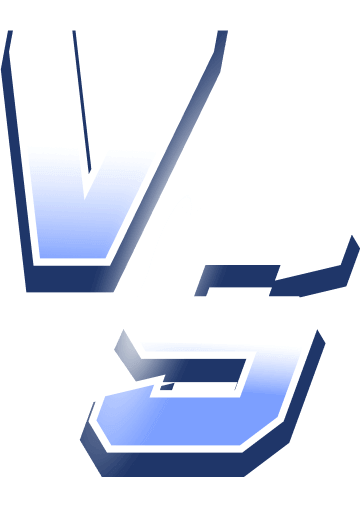
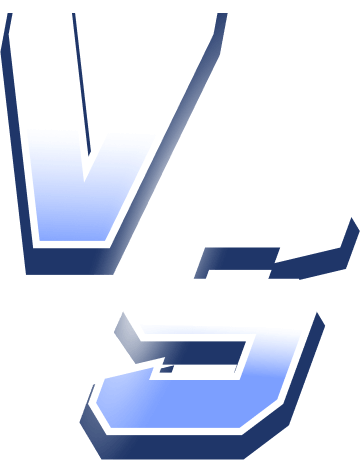
vs page

diff --git a/src/components/Loader/MatchLoader.jsx b/src/components/Loader/MatchLoader.jsx
@@ -3,35 +3,67 @@ import "../../assets/css/Matchmaking.css";
 import one_vs_one from "../../assets/images/1-vs-1.png";
 import blue_right from "../../assets/images/blue_right_bg.png";
 import pink_left from "../../assets/images/pink_left_bg.png";
-import bolt_center from "../../assets/images/bolt_center_img.png";
+import vs_animate from "../../assets/images/vs_animate.png";
+import { motion } from "motion/react";
 
 const MatchLoader = () => {
   return (
     <div className="flex-1 flex flex-col sd_main-content relative bg-[#020326] rounded-b-[0] z-20">
-
-
       <main className="flex-1 match_loading--wrapper overflow-hidden relative ">
-        {/* --- dashboard main content back groud --- */}
-        <div className="loading-not-finish-wp">          
-          <img
-            className="pink-left absolute left-0 top-0 w-[60.6rem]"
+        <div className="loading-not-finish-wp h-[88%] flex justify-center items-center">
+          {/* Pink background - left to right */}
+          <motion.img
+            className="pink-left absolute left-0 top-0 w-full sm:h-[88%] h-[92%]"
             src={pink_left}
             alt=""
+            initial={{ x: "-100%", opacity: 0 }}
+            animate={{ x: 0, opacity: 1 }}
+            transition={{ duration: 0.5, ease: "easeOut" }}
           />
-          <img
-            className="blue-right absolute right-0 top-0 w-[60.6rem]"
+
+          {/* Blue background - right to left */}
+          <motion.img
+            className="blue-right absolute right-0 top-0 w-[67%] sm:h-[88%] h-[92%]"
             src={blue_right}
             alt=""
+            initial={{ x: "100%", opacity: 0 }}
+            animate={{ x: 0, opacity: 1 }}
+            transition={{ duration: 0.5, ease: "easeOut" }}
           />
-          <img
-            className="vs-in bolt-center absolute left-1/2 top-0 w-[32.89rem]"
-            src={bolt_center}
-            alt=""
-          />
-          <img
-            className="vs-in one-vs-one absolute left-1/2 top-1/2 w-[17rem]"
+
+          {/* VS image bounce scale in */}
+          <motion.img
+            className="vs-in relative md:-left-3 one-vs-one h-[15.5rem] sm:h-[18rem] md:h-[20rem] lg:h-[22rem] z-100"
             src={one_vs_one}
             alt=""
+            initial={{ scale: 0, opacity: 0 }}
+            animate={{ scale: 1, opacity: 1 }}
+            transition={{
+              delay: 0.6,
+              duration: 0.8,
+              type: "spring",
+              stiffness: 120,
+            }}
+          />
+
+          {/* 🔥 Smooth infinite glow pulse */}
+          <motion.img
+            className="animate-vs absolute left-0 top-0 w-full sm:h-[88%] h-[92%] pointer-events-none"
+            src={vs_animate}
+            alt=""
+            initial={{ opacity: 0, scale: 1 }}
+            animate={{
+              opacity: [0.7, 1, 0.85, 0.7],
+              scale: [1, 1.08, 1],
+              rotate: [0, 1.5, -1.5, 0],
+            }}
+            transition={{
+              delay: 1.3, // ⏳ start after 0.3s extra
+              duration: 3,
+              repeat: Infinity,
+              repeatType: "loop",
+              ease: "easeInOut",
+            }}
           />
         </div>
       </main>

diff --git a/src/pages/Matchs/MatchDetail.jsx b/src/pages/Matchs/MatchDetail.jsx
@@ -1,7 +1,5 @@
 import React, { useEffect, useRef, useState } from "react";
-
 import "../../assets/css/Matchmaking.css";
-
 import MatchMakingBG from "../../assets/images/matchmakingBG.png";
 import ChatIcon from "../../assets/images/chat_icon.png";
 import ChatArr from "../../assets/images/chat_arr.png";
@@ -18,14 +16,12 @@ import {
   startMatchUpdate,
   stopMatchUpdate,
 } from "../../app/socket/socket";
-
 import MatchLoader from "../../components/Loader/MatchLoader";
-
 import { TeamOneScoreList } from "./teamOneSection";
 import { TeamTwoScoreList } from "./teamTwoSection";
 import { useTranslation } from "react-i18next";
 import { setShowCancelBtn, setshowMobileChat } from "../../app/slices/MatchSlice/matchDetailSlice";
-import { setConfirmationPopUp, setSubmitModal } from "../../app/slices/constState/constStateSlice";
+import { setConfirmationPopUp, setGameMatchLoader ,setSubmitModal } from "../../app/slices/constState/constStateSlice";
 import {
   leftToRight,
   rightToLeft,
@@ -51,9 +47,9 @@ const MatchDetail = () => {
     isMatchCanceled,
     cancelMatchCount,
   } = useSelector((state) => state.matchs);
+  const {gameMatchLoader} = useSelector((state)=> state.constState)
   const user = useSelector((state) => state.auth.user);
   const [messageInput, setMessageInput] = useState("");
-  const [showLoader, setShowLoader] = useState(true);
   const { t } = useTranslation();
   const dispatch = useDispatch();
 
@@ -66,8 +62,9 @@ const MatchDetail = () => {
   }, [timeout])
 
   useEffect(() => {
+    dispatch(setGameMatchLoader(true));
     const timer = setTimeout(() => {
-      setShowLoader(false);
+      // dispatch(setGameMatchLoader(false));
     }, 3000);
     return () => {
       clearTimeout(timer);
@@ -119,7 +116,7 @@ const MatchDetail = () => {
     }
   };
   const LargePrime = getPartnerById(id).logo;
-  if (showLoader || !matchData) {
+  if (gameMatchLoader || !matchData) {
     return <MatchLoader />;
   }
   return (

diff --git a/src/app/slices/constState/constStateSlice.js b/src/app/slices/constState/constStateSlice.js
@@ -22,6 +22,7 @@ const initialState = {
   selectedEndDate: null,
   // New state for player selection confirmation
   selectedPlayerData: null,
+  gameMatchLoader :false,
 
   countryOptions: countryData.map((country) => ({
     value: country.name,
@@ -37,6 +38,9 @@ const constStateSlice = createSlice({
   name: "constState",
   initialState,
   reducers: {
+    setGameMatchLoader: (state, action) => {
+      state.gameMatchLoader = action.payload;
+    },
     // New reducer for player selection
     setSelectedPlayerData: (state, action) => {
       state.selectedPlayerData = action.payload;
@@ -113,6 +117,6 @@ const constStateSlice = createSlice({
   },
 });
 
-export const { setMatchPage, setTimeLineCard, setMatchLoader, setLogin, setShowCalendar, setRegisteration, setActiveTabIndex, setshowNotification, setProfileVisible, setSubmitModal, setViewModal, setPreviewImage, setIsMatctCreated, setNotificationTabIndex, setActiveTournamentTab, setConfirmationPopUp, setSelectedStartDate, setSelectedEndDate, setDateRange, setSelectedPlayerData, setQueueConfirmation } = constStateSlice.actions;
+export const { setMatchPage, setTimeLineCard, setMatchLoader, setLogin, setShowCalendar, setRegisteration, setActiveTabIndex, setshowNotification,setGameMatchLoader, setProfileVisible, setSubmitModal, setViewModal, setPreviewImage, setIsMatctCreated, setNotificationTabIndex, setActiveTournamentTab, setConfirmationPopUp, setSelectedStartDate, setSelectedEndDate, setDateRange, setSelectedPlayerData, setQueueConfirmation } = constStateSlice.actions;
 
 export default constStateSlice.reducer;

diff --git a/src/assets/css/Matchmaking.css b/src/assets/css/Matchmaking.css
@@ -364,59 +364,6 @@ li.team_score--card:hover .review_score--con:before {
   transform: translate(calc(-50% + -0.38rem), 0%);
 }
 
-.one-vs-one {
-  transform: translate(calc(-50% + 2.2rem), -50%);
-}
-
-/***** Slide Left *****/
-.pink-left {
-  animation: pink-left ease-in-out 0.5s;
-  height: 100%;
-}
-
-@keyframes pink-left {
-  from {
-    left: -100%;
-  }
-
-  to {
-    left: 0%;
-  }
-}
-
-/***** Slide Right *****/
-.blue-right {
-  animation: blue-right ease-in-out 0.5s;
-  height: 100%;
-}
-
-@keyframes blue-right {
-  from {
-    right: -100%;
-  }
-
-  to {
-    right: 0%;
-  }
-}
-
-/***** fade in *****/
-.vs-in {
-  animation: vs-in ease-in-out 0.5s;
-  animation-delay: 0.5s;
-  animation-fill-mode: forwards;
-  opacity: 0;
-}
-
-@keyframes vs-in {
-  0% {
-    opacity: 0;
-  }
-
-  100% {
-    opacity: 1;
-  }
-}
 
 @media (max-width: 991px) {
   .left-league {
@@ -498,3 +445,4 @@ li.team_score--card:hover .review_score--con:before {
     right: 0.8rem;
   }
 }
+

diff --git a/src/components/MainView/Main.jsx b/src/components/MainView/Main.jsx
@@ -42,6 +42,7 @@ export default function Main() {
     isRegisteration,
     showNotification,
     confirmationPopUp,
+    gameMatchLoader
   } = useSelector((state) => state.constState);
   const location = useLocation();
   const [loadingSubmit, setLoadingSubmit] = useState(false);
@@ -171,7 +172,9 @@ export default function Main() {
 
   return (
     <div
-      className="flex-1 flex flex-col sd_main-content md:ltr:ml-[-2.5rem] md:rtl:mr-[-2.5rem] relative bg-[#020326] ltr:rounded-l-[2.5rem] rtl:rounded-r-[2.5rem] z-20"
+      className={
+        `flex-1 flex flex-col sd_main-content md:ltr:ml-[-2.5rem] md:rtl:mr-[-2.5rem] relative bg-[#020326] ltr:rounded-l-[2.5rem] rtl:rounded-r-[2.5rem] z-20 ${gameMatchLoader ? "!overflow-y-hidden" : ""}`
+      }
       style={{ scrollbarWidth: "none", msOverflowStyle: "none" }}
     >
       {/* <div
